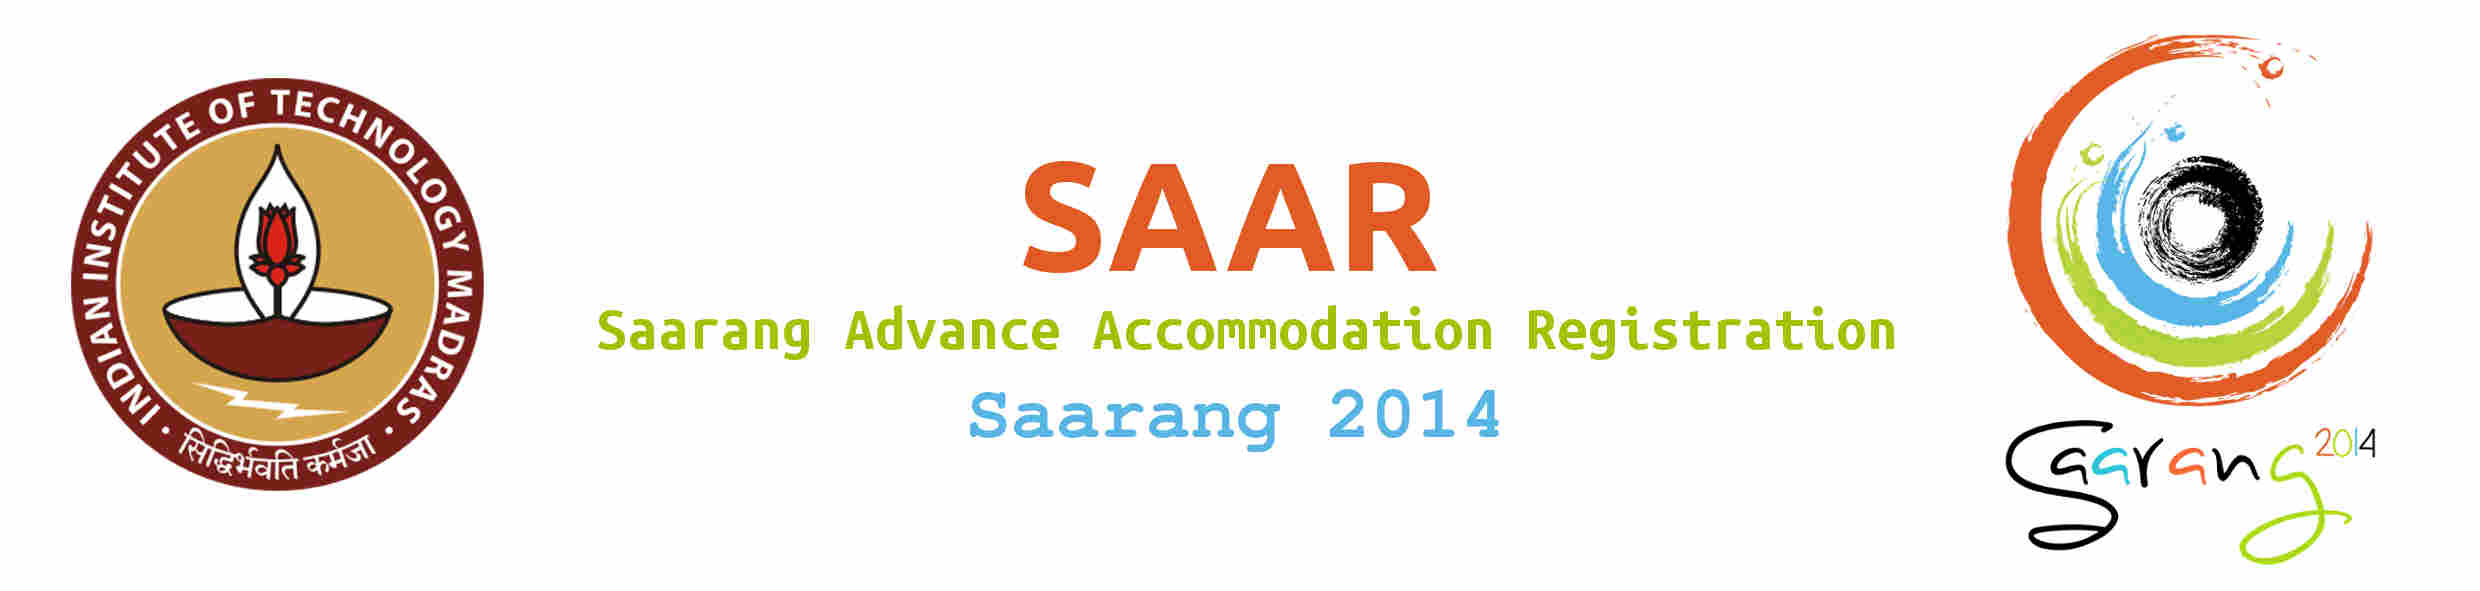
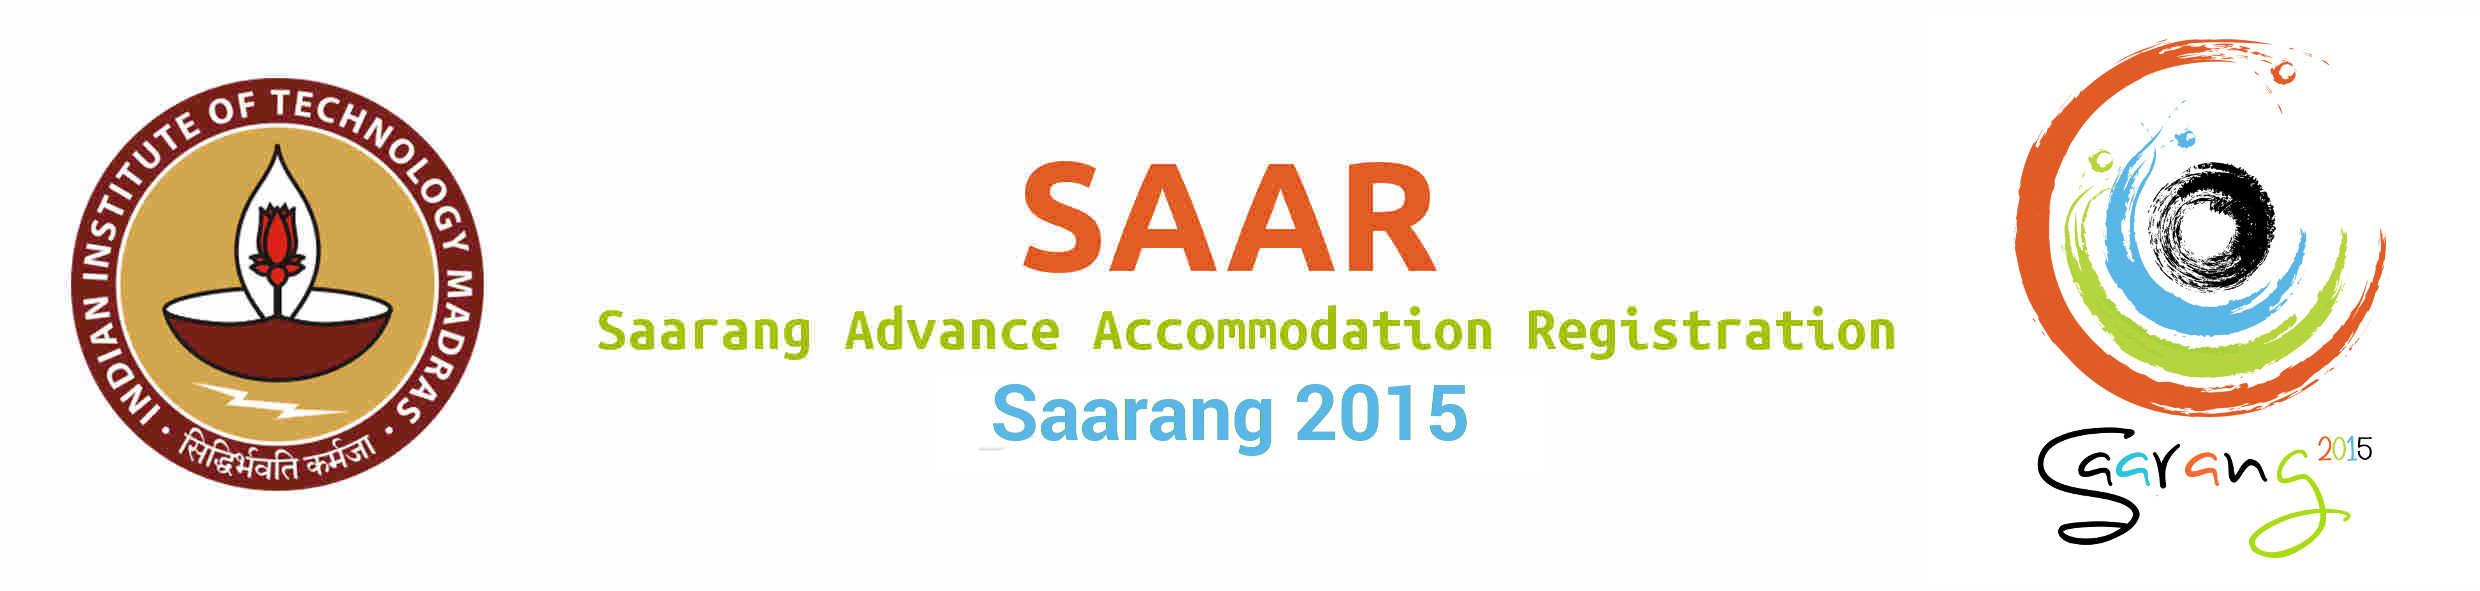
Hospi acco confirmation done

Changed region(s): [[0.8073, 0.0609, 0.9625, 0.9442], [0.3726, 0.6396, 0.621, 0.7614], [0.9004, 0.8223, 0.9625, 0.9746]]

diff --git a/files/templates/portals/hospi/saar.html b/files/templates/portals/hospi/saar.html
@@ -77,7 +77,7 @@
             </td>
         </tr>
         <tr>
-            <td >Saarang ID</td>
+            <td >Team Saarang ID</td>
             <td >{{ team.team_sid }}</td>
         </tr>
         <tr>
@@ -171,39 +171,22 @@
     <pdf:nextpage /> 
 </div> 
 <p align="center"><b><u>TERMS AND CONDITIONS - ACCOMMODATION - SAARANG 2015</u></b></p>
-
-<li>
-Accommodation Charges per person = Rs. 300 for first day and Rs. 250 for each following day.
-</li>
-<li>Caution deposit: Rs. 500 for two persons.</li>
-
-<li>Participants need to carry SAAR and  photocopy of their college ID cards along with the original</li>
-<li><b>Bonafide certificate</b> from college is necessary to avail accommodation.</li><li>
-The process of Checking in will be done at Control rooms located in the hostel zone. So, participants are requested to come to the Control rooms as soon as they come to IIT Campus. The exact location of the control rooms will be intimated later.</li><li>
-
-Accommodation will be provided only from 10 AM on 7th  January to 9AM on 13th January (A participant can stay for the days he/she registered for. Any cases of overstay within the above time period will attract additional payment of 300 INR per day.)</li><li>
-We will provide you with mattresses.But participants are requested to get their own locks &amp; keys for the rooms that they will be allotted during Saarang.(Note: You may have to share rooms with other participants. So plan accordingly upon reaching).</li><li>
-Girls are not allowed in boys hostels and vice versa.</li><li>
-Control room is open from midnight (12 AM) to 5PM everyday, i.e. for 17 hours per day.</li><li>
-It will remain closed from 5PM to 12AM due to Professional Shows.</li><li>
-The control room will close at 9 AM on 12th January 2015. All the formalities of checking out have to be done before that.</li><li>
-If any delay is made in checking out, caution deposit will not be refunded.</li><li>
-Refund of caution deposit is subject to terms and conditions (like condition of the room, condition of mattresses while checking out) along with the return of receipt provided at the time of check in.</li><li>
-Participants would necessarily need to share accommodation. Single rooms will not be provided to any participant.</li><li>
-Valuable items should not be kept along with the luggage in the room. Saarang 2015 will not be responsible for any loss or damage of property. Please secure your belongings and put your details on the same.</li><li>
-Please make entries in the register kept with the hostel security whenever you move in and out of the allotted room.</li><li>
-Possession and consumption of alcohol and narcotics in any form is strictly prohibited. If reported, the participant status of the person will be ipso facto null and void and the case will be severely dealt with.</li><li>
-Smoking is prohibited in the campus.</li><li>
-Outstation participants are not allowed to use the sports equipments of the hostels. If any usage or damage is reported, the cost of the equipment will be collected. </li><li>Participants will not be allowed to occupy the rooms they have been allotted beyond the date for which they have registered.</li><li></li><li>
-Please keep the rooms and hostel area clean.</li><li>
-Hospitality Desk and Info Desk will be functional on the days of the fest. Please approach us for and event related queries or any sortof general assistance .
-
+<p align="center">(To be signed by team leader and submitted at the Control Room at the time of check-in)</p>
+<ul>
+<li >Accommodation Charges per person = Rs. 300 per day for all the 5 days</li></ul><ul ><li >Caution deposit: Rs. 500 for two persons</li><li >Accommodation is strictly provided only for students and not for any other person accompanying with student, if it is the case then such persons should make their own arrangements.        </li><li >Participants need to carry SAAR and photocopy of their college ID cards along with the original Bonafide certificate from college is necessary to avail accommodation.        </li><li >The process of Checking in will be done at Control rooms located in the hostel zone. So, participants are requested to come to the Control rooms as soon as they come to IIT Campus. The exact location of the control rooms will be intimated later.</li><li >Accommodation will be provided only from 10 AM on 7th January to 9AM on 12th January.</li></ul><p class="c3 c17">(A participant can stay for the days he/she registered for. Any cases of overstay within the above time period will attract additional payment of 300 INR per day.)</p><ul ><li >We will provide you with mattresses. But participants are requested to get their own locks &amp; keys for the rooms that they will be allotted during Saarang. (Note: You may have to share rooms with other participants. So plan accordingly upon reaching).</li><li >Girls are not allowed in boys’ hostels and vice versa.</li><li >Control room is open from midnight (12 AM) to 5PM every day, i.e. for 17 hours per day.</li><li >It will remain closed from 5PM to 12AM due to Professional Shows.</li><li >The control room will close at 9 AM on 12th January. All the formalities of checking out have to be done before that.</li><li >If any delay is made in checking out, caution deposit will not be refunded.</li><li >Refund of caution deposit is subject to terms and conditions (like condition of the room, condition of mattresses while checking out) along with the return of receipt provided at the time of check in.</li><li >Participants would necessarily need to share accommodation. Single rooms will not be provided to any participant.</li><li >Valuable items should not be kept along with the luggage in the room. Saarang 2015 will not be responsible for any loss or damage of property. Please secure your belongings and put your details on the same.</li><li >Please make entries in the register kept with the hostel security whenever you move in and out of the room.</li><li >Possession and consumption of alcohol and narcotics in any form is strictly prohibited. If reported, the participant status of the person will be ipso facto null and void and the case will be severely dealt with.</li></ul><ul ><li >Smoking is prohibited in the campus.</li><li >Outstation participants are not allowed to use the sports equipment of the hostels. If any usage or damage is reported, the cost of the equipment will be collected.</li><li >Participants will not be allowed to occupy the rooms they have been allotted beyond the date for which they have registered.</li><li >Please keep the rooms and hostel area clean.</li><li >Saarang 2015, Office of Hostel management or IIT Madras is not responsible for any injuries or accidents caused during your stay. </li></ul>
 
 <p align="center"><b><u>DECLARATION</u></b></p>
-<p>I agree to abide by the Rules and Regulations of Saarang 2015. Failing to do so will result in my accommodation being cancelled.</p>
+<p>I and my team members agree to abide by the Terms and Conditions of Saarang 2015. Failing to do so will result in my accommodation being cancelled.</p>
 <br/>
 <p align="right">(Signature)<br/>{{team.leader.user.get_full_name}}<br/>Team Leader<br/>Team: {{team.name}}</p>
 
 
-<center>-- Wishing you a pleasant, comfortable stay and a Great Out of the World Experiece at IIT Madras. -Hospitality Team, Saarang 2015 --</center>
+<center>-- Wishing you a pleasant, comfortable stay and a Great Out of the World Experience  at IIT Madras. Hospitality Team, Saarang 2015 --</center>
+<br/>
+<br/>
+<br/>
+<br/>
+<center>
+       <img src="/static/img/footer.jpg"/>
+   </center>
 </body>

diff --git a/files/templates/portals/hospi/team_details.html b/files/templates/portals/hospi/team_details.html
@@ -1,8 +1,7 @@
 <!DOCTYPE html>
 {% load staticfiles %}
 {% load url from future %}
-{% load dajaxice_templatetags %}
-{% dajaxice_js_import %}
+
 {% load humanize %}
 <html lang="en">
 
@@ -14,6 +13,9 @@
     <script src="{% static 'bootstrap/js/bootstrap.js' %}"></script>
 
     <link href="{% static 'bootstrap/css/bootstrap.css' %}" rel="stylesheet">
+
+    {% load dajaxice_templatetags %}
+    {% dajaxice_js_import %}
 </head>
 <body>
 <div class="container">
@@ -73,7 +75,7 @@ a.danger
         <td rowspan=2><strong><h1>{{team.name}}</h1></strong></td>
         <td>{{ team.team_sid }}</td>
         <td style="text-align:center;">{{ team.time_of_arrival|title }} on {{ team.date_of_arrival }} -to- </td>
-        <td style="text-align:center;"><a href="#addAccomodationModal" role="button" class="btn btn-danger" data-toggle="modal">Change time</a></td>
+        <td style="text-align:center;"><a href="#addAccomodationModal" role="button" disabled class="btn btn-danger" data-toggle="modal">Change time</a></td>
         <td style="text-align:center;">
 {% if editable %}
   <!--<a type="button" id="myPopover" onclick="$('#myPopover').popover();" class="btn btn-default" data-toggle="popover" data-html="true" data-placement="bottom" data-content="<form><label class='radio inline control-label'><input type='radio' name='status' value='not_req'><span class='label label-primary'>Not required</span></label><label class='radio inline'><input type='radio' name='status' value='requested'><span class='label label-info'>Pending</span></label><label class='radio inline'><input type='radio' name='status' value='confirmed'><span class='label label-success'>Confirm</span></label><label class='radio inline control-label'><input type='radio' name='status' value='waitlisted'><span class='label label-warning'>Waitlist</span></label><label class='radio inline control-label'><input type='radio' name='status' value='rejected'><span class='label label-danger'>Reject</span></label><hr/>Status once changed to Confirm or Reject cannot be reverted back<input type='button' onclick='Dajaxice.apps.portals.hospi.update_status(update_status,{'team_id':{{team.pk}}});'class='btn btn-small' value='Update '></input></form>" data-original-title="Update status" title="">-->
@@ -97,12 +99,12 @@ a.danger
         <td>{{ team.city }} - {{ team.leader.college }}</td>
         <td style="text-align:center;">{{ team.time_of_departure|title }} on {{ team.date_of_departure }} </td>
         <td style="text-align:center;">{% if team.accomodation_status == 'confirmed' and not team.checked_in and not team.checked_out %}
-<a {% comment %}href="{% url 'hospi.views.check_in_team' team.pk %}"{% endcomment %} data-target="#checkinModal" class="btn btn-success"><i class="icon-home"></i> Check-in</a>
+<a disabled {% comment %}href="{% url 'hospi.views.check_in_team' team.pk %}"{% endcomment %} data-target="#checkinModal" class="btn btn-success"><i class="icon-home"></i> Check-in</a>
 {% elif team.accomodation_status == 'confirmed' and team.checked_in and not team.checked_out %}
 <a {% comment %}href="{% url 'hospi.views.check_out_team' team.pk %}"{% endcomment %} data-target="#checkoutModal" class="btn btn-danger require-alert"><i class="icon-home"></i> Check-out</a>
 {% endif %}</td>
-<td><a class='btn btn-info' target="_blank" {% comment %} href="{% url 'hospi.views.print_bill' team.pk %}" {% endcomment %} >Print bill</a></td>
-<td><a class='btn btn-info' target="_blank" {% comment %} href="{% url 'hospi.views.print_saar' team.pk %}" {% endcomment %}>Print SAAR</a></td>
+<td><a disabled class='btn btn-info' target="_blank" {% comment %} href="{% url 'hospi.views.print_bill' team.pk %}" {% endcomment %} >Print bill</a></td>
+<td><a class='btn btn-info' target="_blank"  href="{% url 'apps.hospi.views.print_saar' team.pk %}" >Print SAAR</a></td>
     </tr>
 </table>
 <table class="table table-bordered" id="bill" >
@@ -133,8 +135,11 @@ a.danger
 </div>
 </div>
 
-<div class="alert alert-info">
-<strong>Total {{ team.get_total_count }} members. ( {{ team.get_male_count }} males and {{ team.get_female_count }} females )</strong><div class="buttonPlaceholder pull-right"><button id='btnAddNewRow' class='btn btn-primary' href='#adduserModal' data-toggle='modal'>Add new member</button></div>
+<div class="panel panel-info">
+<div class="panel-heading">
+<strong>Total {{ team.get_total_count }} members. ( {{ team.get_male_count }} males and {{ team.get_female_count }} females )</strong><div class="buttonPlaceholder pull-right"><button disabled id='btnAddNewRow' class='btn btn-warning btn-xs' href='#adduserModal' data-toggle='modal'>Add new member</button></div>
+</div>
+<div class="panel-body">
 <table class="member_data table table-borderless">
   <thead>
     <th>N</th>
@@ -155,24 +160,24 @@ a.danger
       <td><a href="#">{{ team.leader.saarang_id }}</a></td>
       <td>{{ team.leader.desk_id }}</td>
       <td>{{ team.leader.gender|title }}</td>
-      <td>{{ team.leader.email }}</td>
-      <td>{{ team.leader.name }}</td>
-      <td>{{ team.leader.mobile }}</td>
-      <td>{{ team.leader.college_id }}</td>
-      <td>{{ team.leader.college }}</td>
+      <td>{{ team.leader.user.email }}</td>
+      <td>{{ team.leader.user.get_full_name }}</td>
+      <td>{{ team.leader.mobile_number }}</td>
+      <td>{{ team.leader.college_roll }}</td>
+      <td>{{ team.leader.college_text }}</td>
     </tr>
     {% for member in team.members.all %}
-    <tr id="{{member.id}}" {% if member.accomod_is_confirmed and team.accomodation_status != 'confirmed' %}class="error"{% endif %} >
+    <tr id="{{member.id}}" {% if member.accomod_is_confirmed and team.accomodation_status != 'confirmed' %}class="danger"{% endif %} >
       <td>{{ forloop.counter|add:1 }}</td>
-      <td><a class="table-action-deletelink btn btn-danger btn-mini" {% comment %}href="{% url 'hospi.views.del_member' team.id %}"{% endcomment %}><i class='icon-remove-circle icon-white'></i></a></td>
+      <td><a disabled class="table-action-deletelink btn btn-danger btn-xs" {% comment %}href="{% url 'hospi.views.del_member' team.id %}"{% endcomment %}>&times;</a></td>
       <td><a href="#">{{ member.saarang_id }}</a></td>
       <td>{{ member.desk_id }}</td>
       <td>{{ member.gender|title }}</td>
-      <td>{{ member.email }}</td>
-      <td>{{ member.name }}</td>
-      <td>{{ member.mobile }}</td>
-      <td>{{ member.college_id }}</td>
-      <td>{{ member.college }}</td>
+      <td>{{ member.user.email }}</td>
+      <td>{{ member.user.get_full_name }}</td>
+      <td>{{ member.mobile_number }}</td>
+      <td>{{ member.college_roll }}</td>
+      <td>{{ member.college_text }}</td>
     </tr>
     {% endfor %}
     </tbody>
@@ -182,7 +187,7 @@ a.danger
 
 Members highlighted in red indicates people who have accommodation confirmed already in other teams. They will be automatically removed upon confirmation of this team. (Leader has been pre-notified)
 </div>
-
+</div>
 </center>
   
 <div id="checkinModal" class="modal hide fade" tabindex="-1" role="dialog" aria-labelledby="checkinModalLabel" aria-hidden="true">

diff --git a/files/emails/confirm_accommodation.html b/files/emails/confirm_accommodation.html
@@ -1,0 +1,7 @@
+<p>Hello,</p>
+<p>Greetings from Saarang 2015.</p>
+<p>Your request for accommodation at IIT Madras for Saarang 2015 has been confirmed.<br />Team name: {{team.name}}<br />Team leader: {{team.leader.user.get_full_name}} ({{team.leader.user.email}})</p>
+<p><strong>SAAR (Saarang Advance Accommodation Registration)</strong> confirmation letter can be now downloaded from the <a href="http://saarang.org/2015/main/accommodation" target="_blank">Accommodation Portal</a>.<br />Please take a printout of <strong>all the pages of SAAR</strong> and keep at the time of check in, along with <strong>xerox and original</strong> of your <strong>college identity card</strong>.<br />Also, you need to submit a <strong>bonafide certificate</strong> from your college.</p>
+<p>Please go through the <a href="http://erp.saarang.org/erp/static/docs/Hospi_Terms_Saarang2015.pdf" target="_blank">Terms & Conditions</a>&nbsp;and <a href="http://erp.saarang.org/erp/static/docs/Pricing_System_Saarang2015.pdf" target="_blank">Pricing Details</a> for more information.</p>
+<p>Wishing you a great Out of the World experience,</p>
+<p>Web Operations Team,<br />Saarang 2015</p>

diff --git a/files/templates/portals/hospi/prehome.html b/files/templates/portals/hospi/prehome.html
@@ -16,10 +16,7 @@
             <div class="span6"><center>
                 <h3>Accommodation portal</h3><hr/></center>
             </div>
-<<<<<<< Updated upstream
             <!-- <div class="pull-right"><a class="btn btn-danger" href="{% url 'apps.hospi.views.logout' %}" ><i class="icon-off icon-white"></i> Logout</a></div> -->
-=======
->>>>>>> Stashed changes
         </div>
 
         <div class="panel panel-warning">

diff --git a/files/emails/status_update.html b/files/emails/status_update.html
@@ -1,0 +1,9 @@
+<p>Hello,</p>
+<p>Greetings from Saarang 2015.</p>
+<p>Your request for accommodation at IIT Madras for Saarang 2015 has been {{ status }}.</p>
+<p>Team name: {{team.name}}</p>
+<p>Team leader: {{team.leader.user.get_full_name}} ({{team.leader.user.email}})</p>
+<p>{{team.get_total_count}} members.</p>
+<p>Wishing you a happy Saarang,</p>
+<p>Web Operations Team,</p>
+<p>Saarang 2015'</p>

diff --git a/apps/portals/hospi/ajax.py b/apps/portals/hospi/ajax.py
@@ -11,6 +11,8 @@ from django.shortcuts import get_object_or_404
 from apps.hospi import utility as u
 from django.contrib import messages
 
+from post_office import mail
+
 @dajaxice_register
 def list_all_teams(request):
 	dept_list= ['hospi', 'webops']
@@ -238,7 +240,6 @@ def update_status(request, stat, team_id):
         team.members.remove(team.leader)
         messages.warning(request, 'For '+ team.name + ' : ' + team.team_sid +', Team leader found in members list also. Successfully removed!')
     if stat:
-        print stat
         if stat == 'confirmed':
             team.leader.accomod_is_confirmed = True
             team.leader.save()
@@ -256,20 +257,19 @@ def update_status(request, stat, team_id):
         messages.success(request, 'Status for '+team.name+' successfully updated to '+stat)
         emailsubject='Accommodation request '+stat+', Saarang 2015'
         users=[]
-        ''' Utture
         for user in team.get_all_members():
-            users.append(user.email)
+            users.append(user.user.email)
         if stat == 'confirmed':
             mail.send(
-                users, template='email/hospi/confirm_accommodation',
+                users, template='confirm_accommodation.email',
                 context={'team':team,}
                 )
         else:
             mail.send(
-                users, template='email/hospi/status_update',
+                users, template='status_update.email',
                 context={'status':stat, 'team':team,}
                 )
-		'''
+		
     return json.dumps({'stat':stat})
 
 @dajaxice_register

diff --git a/apps/hospi/utility.py b/apps/hospi/utility.py
@@ -49,7 +49,7 @@ def bill(in_date, in_time, out_date, out_time, n):
     }
 
 
-#from xhtml2pdf import pisa
+from xhtml2pdf import pisa
 import os
 from django.conf import settings
 from django.http import HttpResponse
@@ -63,7 +63,7 @@ from django.shortcuts import render, redirect, get_object_or_404
 def link_callback(uri, rel):
     # use short variable names
     sUrl = settings.STATIC_URL      # Typically /static/
-    sRoot = settings.STAT           # Typically /home/userX/project_static/
+    sRoot = settings.STATIC_ROOT    # Typically /home/userX/project_static/
     mUrl = settings.MEDIA_URL       # Typically /static/media/
     mRoot = settings.MEDIA_ROOT     # Typically /home/userX/project_static/media/
 
@@ -83,7 +83,7 @@ def link_callback(uri, rel):
                     (sUrl, mUrl))
 
     return path
-'''
+
 def generate_pdf(request, team_id):
     # Prepare context
     team = get_object_or_404(HospiTeam, pk=team_id)
@@ -148,4 +148,4 @@ def checkout_bill(request, team_id):
     response =  HttpResponse(pdf, mimetype='application/pdf')
     # response['Content-Disposition'] = "attachment; filename='Bill_"+team.team_sid+"_Saarang2014.pdf'"
     return response
-'''
+

diff --git a/apps/hospi/models.py b/apps/hospi/models.py
@@ -72,15 +72,15 @@ class HospiTeam(models.Model):
         return mem+1
 
     def get_male_count(self):
-        M=['male', 'Male']
-        mem = len(self.members.all().filter(gender='male'))
+        M=['male', 'Male', 'm','M']
+        mem = len(self.members.all().filter(gender__in=M))
         if self.leader.gender in M:
             mem +=1
         return mem
 
     def get_female_count(self):
-        F=['female', 'Female']
-        mem = len(self.members.all().filter(gender='female'))
+        F=['female', 'Female','f','F']
+        mem = len(self.members.all().filter(gender__in=F))
         if self.leader.gender in F:
             mem +=1
         return mem

diff --git a/apps/hospi/urls.py b/apps/hospi/urls.py
@@ -47,7 +47,7 @@ urlpatterns = patterns('',
 
     # url(r'^admin/split/(?P<team_id>\d+)/$', 'hospi.views.split_team', name='hospi_split_team'),
     # url(r'^admin/print/(?P<team_id>\d+)/$', 'hospi.views.print_bill', name='hospi_print_bill'),
-    # url(r'^admin/print_saar/(?P<team_id>\d+)/$', 'hospi.views.print_saar', name='hospi_print_saar'),
+    url(r'^admin/print_saar/(?P<team_id>\d+)/$', 'apps.hospi.views.print_saar', name='hospi_print_saar'),
     # url(r'^admin/delete/(?P<room_id>\d+)/$', 'hospi.views.delete_room', name='hospi_delete_room'),
 
     )
